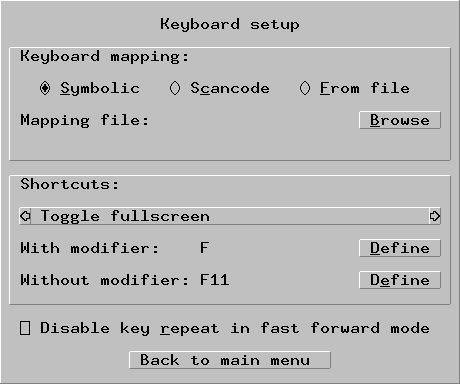
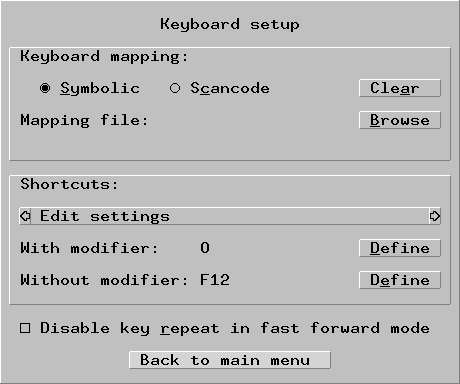
Make it possible to load keymaps with fallback to scancode mode

diff --git a/doc/manual.html b/doc/manual.html
@@ -1897,11 +1897,11 @@ the screenshots and recorded videos.
  If it works on your system, this often gives better results than the symbolic
  mapping. Note that you also need a TOS version with the right language
  (e.g. use a French TOS if you are using a French keyboard).</p>
-<p>You can also load a custom keyboard mapping file here if you wish. Please
- note that the custom keyboard mapping will use the "symbolic"
- mapping for all keys that are not defined by your map file. Have a look
- at the supplied example mapfile (keymap-sample.txt) to see how to create
- your own keyboard mapping.</p>
+<p>You can also additionally load a custom keyboard mapping file here if you
+ wish. Click <span class="button">Browse</span> to select a mapping file.
+ Please have a look at the supplied example mapfile (keymap-sample.txt) to
+ see how to create your own keyboard mapping. If you want to disable the
+ mapping file again, press the <span class="button">Clear</span> button.</p>
 <p>
  The "Shortcuts" section can be used to configure the keyboard shortcuts
  that can be activated while the emulation is running. Hatari supports

diff --git a/src/gui-sdl/dlgKeyboard.c b/src/gui-sdl/dlgKeyboard.c
@@ -18,7 +18,7 @@ const char DlgKeyboard_fileid[] = "Hatari dlgKeyboard.c";
 
 #define DLGKEY_SYMBOLIC  4
 #define DLGKEY_SCANCODE  5
-#define DLGKEY_FROMFILE  6
+#define DLGKEY_CLEARFILE 6
 #define DLGKEY_MAPNAME   8
 #define DLGKEY_MAPBROWSE 9
 #define DLGKEY_SCPREV    13
@@ -44,7 +44,7 @@ static SGOBJ keyboarddlg[] =
 	{ SGTEXT, 0, 0, 2,3, 17,1, "Keyboard mapping:" },
 	{ SGRADIOBUT, 0, 0,  4,5, 10,1, "_Symbolic" },
 	{ SGRADIOBUT, 0, 0, 17,5, 10,1, "S_cancode" },
-	{ SGRADIOBUT, 0, 0, 30,5, 11,1, "_From file" },
+	{ SGBUTTON, 0, 0, 36,5, 8,1, "Cle_ar" },
 	{ SGTEXT, 0, 0, 2,7, 13,1, "Mapping file:" },
 	{ SGTEXT, 0, 0, 2,8, 42,1, NULL },
 	{ SGBUTTON,   0, 0, 36, 7,  8,1, "_Browse" },
@@ -217,17 +217,15 @@ static void DlgKbd_RefreshShortcuts(int sc)
  */
 void Dialog_KeyboardDlg(void)
 {
-	int i, but;
+	int but;
 	char dlgmapfile[44];
 	int cur_sc = 0;
 
 	SDLGui_CenterDlg(keyboarddlg);
 
 	/* Set up dialog from actual values: */
-	for (i = DLGKEY_SYMBOLIC; i <= DLGKEY_FROMFILE; i++)
-	{
-		keyboarddlg[i].state &= ~SG_SELECTED;
-	}
+	keyboarddlg[DLGKEY_SYMBOLIC].state &= ~SG_SELECTED;
+	keyboarddlg[DLGKEY_SCANCODE].state &= ~SG_SELECTED;
 	keyboarddlg[DLGKEY_SYMBOLIC+ConfigureParams.Keyboard.nKeymapType].state |= SG_SELECTED;
 
 	File_ShrinkName(dlgmapfile, ConfigureParams.Keyboard.szMappingFileName,
@@ -253,6 +251,10 @@ void Dialog_KeyboardDlg(void)
 			                      ConfigureParams.Keyboard.szMappingFileName,
 			                      keyboarddlg[DLGKEY_MAPNAME].w, false);
 			break;
+		 case DLGKEY_CLEARFILE:
+			 ConfigureParams.Keyboard.szMappingFileName[0] = 0;
+			 dlgmapfile[0] = 0;
+			 break;
 		 case DLGKEY_SCPREV:
 			if (cur_sc > 0)
 			{
@@ -283,10 +285,8 @@ void Dialog_KeyboardDlg(void)
 	/* Read values from dialog: */
 	if (keyboarddlg[DLGKEY_SYMBOLIC].state & SG_SELECTED)
 		ConfigureParams.Keyboard.nKeymapType = KEYMAP_SYMBOLIC;
-	else if (keyboarddlg[DLGKEY_SCANCODE].state & SG_SELECTED)
-		ConfigureParams.Keyboard.nKeymapType = KEYMAP_SCANCODE;
 	else
-		ConfigureParams.Keyboard.nKeymapType = KEYMAP_LOADED;
+		ConfigureParams.Keyboard.nKeymapType = KEYMAP_SCANCODE;
 
 	ConfigureParams.Keyboard.bDisableKeyRepeat = (keyboarddlg[DLGKEY_DISREPEAT].state & SG_SELECTED);
 }

diff --git a/src/keymap.c b/src/keymap.c
@@ -39,6 +39,7 @@ const char Keymap_fileid[] = "Hatari keymap.c";
 
 /* Table for loaded keys: */
 static int LoadedKeymap[KBD_MAX_SCANCODE][2];
+static bool keymap_loaded;
 
 /* List of ST scan codes to NOT de-bounce when running in maximum speed */
 static const uint8_t DebounceExtendedKeys[] =
@@ -590,23 +591,8 @@ static uint8_t Keymap_GetKeyPadScanCode(const SDL_Keysym* pKeySym)
  */
 static uint8_t Keymap_RemapKeyToSTScanCode(const SDL_Keysym* pKeySym)
 {
-	/* Check for keypad first so we can handle numlock */
-	if (ConfigureParams.Keyboard.nKeymapType != KEYMAP_LOADED)
-	{
-		if (pKeySym->sym >= SDLK_KP_1 && pKeySym->sym <= SDLK_KP_9)
-		{
-			return Keymap_GetKeyPadScanCode(pKeySym);
-		}
-	}
-
-	/* Remap from PC scancodes? */
-	if (ConfigureParams.Keyboard.nKeymapType == KEYMAP_SCANCODE)
-	{
-		return Keymap_PcToStScanCode(pKeySym);
-	}
-
 	/* Use loaded keymap? */
-	if (ConfigureParams.Keyboard.nKeymapType == KEYMAP_LOADED)
+	if (keymap_loaded)
 	{
 		int i;
 		for (i = 0; i < KBD_MAX_SCANCODE && LoadedKeymap[i][1] != 0; i++)
@@ -614,6 +600,18 @@ static uint8_t Keymap_RemapKeyToSTScanCode(const SDL_Keysym* pKeySym)
 			if (pKeySym->sym == (SDL_Keycode)LoadedKeymap[i][0])
 				return LoadedKeymap[i][1];
 		}
+	}
+
+	/* Check for keypad first so we can handle numlock */
+	if (pKeySym->sym >= SDLK_KP_1 && pKeySym->sym <= SDLK_KP_9)
+	{
+		return Keymap_GetKeyPadScanCode(pKeySym);
+	}
+
+	/* Remap from PC scancodes? */
+	if (ConfigureParams.Keyboard.nKeymapType == KEYMAP_SCANCODE)
+	{
+		return Keymap_PcToStScanCode(pKeySym);
 	}
 
 	/* Use symbolic mapping */
@@ -686,6 +684,7 @@ void Keymap_LoadRemapFile(const char *pszFileName)
 
 	/* Initialize table with default values */
 	memset(LoadedKeymap, 0, sizeof(LoadedKeymap));
+	keymap_loaded = false;
 
 	if (!*pszFileName)
 		return;
@@ -756,6 +755,9 @@ void Keymap_LoadRemapFile(const char *pszFileName)
 		idx += 1;
 	}
 	fclose(in);
+
+	if (idx > 0)
+		keymap_loaded = true;
 
 	if (fails)
 		Log_AlertDlg(LOG_ERROR, "%d keymap file parsing failures\n(see console log for details)", fails);

diff --git a/src/change.c b/src/change.c
@@ -189,6 +189,7 @@ void Change_CopyChangedParamsToConfiguration(CNF_PARAMS *current, CNF_PARAMS *ch
 	bool bReInitHdcEmu = false;
 	bool bReInitIDEEmu = false;
 	bool bReInitIoMem = false;
+	bool bReInitKeymap = false;
 	bool bScreenModeChange = false;
 	bool bReInitMidi = false;
 	bool bReInitPrinter = false;
@@ -390,6 +391,9 @@ void Change_CopyChangedParamsToConfiguration(CNF_PARAMS *current, CNF_PARAMS *ch
 		bReInitMidi = true;
 	}
 
+	bReInitKeymap = strcmp(changed->Keyboard.szMappingFileName,
+	                       current->Keyboard.szMappingFileName);
+
 	/* Copy details to configuration,
 	 * so it can be saved out or set on reset
 	 */
@@ -411,7 +415,7 @@ void Change_CopyChangedParamsToConfiguration(CNF_PARAMS *current, CNF_PARAMS *ch
 #endif
 
 	/* Set keyboard remap file */
-	if (ConfigureParams.Keyboard.nKeymapType == KEYMAP_LOADED)
+	if (bReInitKeymap)
 	{
 		Dprintf("- keymap<\n");
 		Keymap_LoadRemapFile(ConfigureParams.Keyboard.szMappingFileName);

diff --git a/src/options.c b/src/options.c
@@ -1090,6 +1090,7 @@ bool Opt_ParseParameters(int argc, const char * const argv[])
 	int i, ok = true;
 	float zoom;
 	int val;
+	bool valid;
 
 	/* Defaults for loading initial memory snap-shots */
 	bLoadMemorySave = false;
@@ -2098,10 +2099,10 @@ bool Opt_ParseParameters(int argc, const char * const argv[])
 			i += 1;
 			ok = Opt_StrCpy(OPT_KEYMAPFILE, true, ConfigureParams.Keyboard.szMappingFileName,
 					argv[i], sizeof(ConfigureParams.Keyboard.szMappingFileName),
-					NULL);
-			if (ok)
+					&valid);
+			if (ok && !valid)
 			{
-				ConfigureParams.Keyboard.nKeymapType = KEYMAP_LOADED;
+				ConfigureParams.Keyboard.szMappingFileName[0] = 0;
 			}
 			break;
 

diff --git a/src/configuration.c b/src/configuration.c
@@ -1135,6 +1135,12 @@ void Configuration_Load(const char *psFileName)
 	Configuration_LoadSection(psFileName, configs_Midi, "[Midi]");
 	Configuration_LoadSection(psFileName, configs_System, "[System]");
 	Configuration_LoadSection(psFileName, configs_Video, "[Video]");
+
+	/* Some more legacy handling: */
+	if (ConfigureParams.Keyboard.nKeymapType >= KEYMAP_OLD_LOADED)
+	{
+		ConfigureParams.Keyboard.nKeymapType = KEYMAP_SYMBOLIC;
+	}
 }
 
 

diff --git a/src/includes/configuration.h b/src/includes/configuration.h
@@ -100,7 +100,7 @@ typedef enum
 {
   KEYMAP_SYMBOLIC,  /* Use keymapping with symbolic (ASCII) key codes */
   KEYMAP_SCANCODE,  /* Use keymapping with PC keyboard scancodes */
-  KEYMAP_LOADED     /* Use keymapping with a map configuration file */
+  KEYMAP_OLD_LOADED /* Used for config file in former versions */
 } KEYMAPTYPE;
 
 typedef struct
